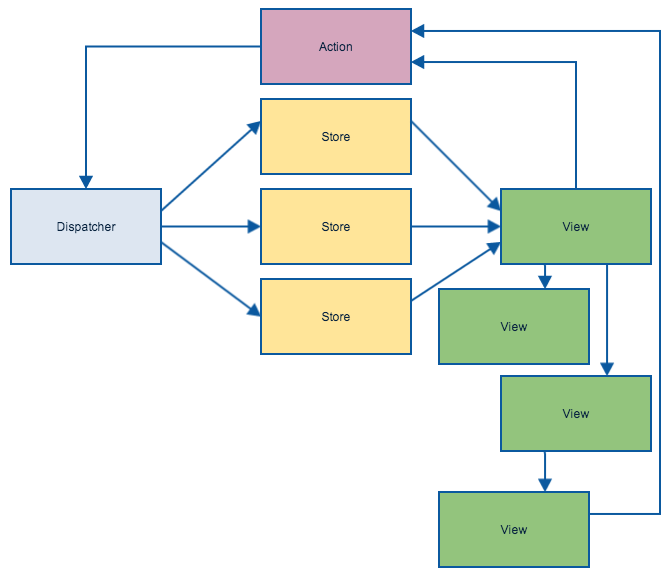
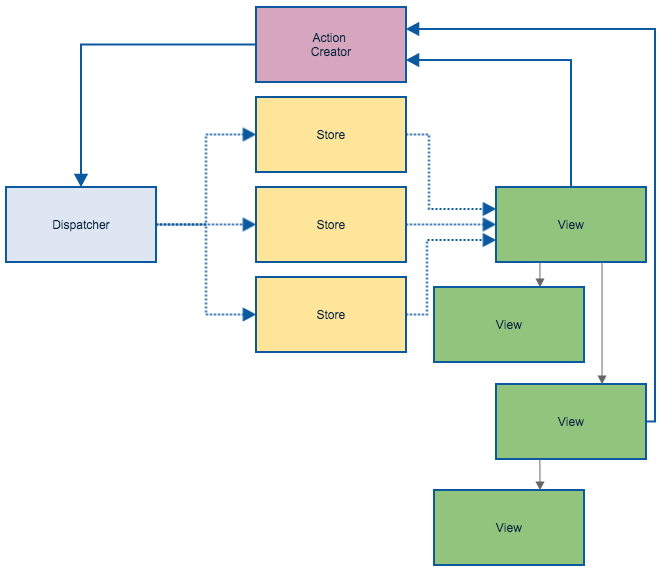
Update what is flux doc

diff --git a/site/contents/what-is-flux.md b/site/contents/what-is-flux.md
@@ -8,28 +8,28 @@ What is Flux?
 
 Flux is an architecture for creating data layers in JavaScript applications. It was designed at Facebook along with the [React](http://facebook.github.io/react/) view library.
 
-Flux is an alternative to the "M" and "C" in the MVC architecture. In MVC, a user interaction triggers code in a controller, which then coordinates changes to one or more models. When the models change, they notify one or more views, which read the new data from the models and update themselves accordingly so that the user can see that new data.
+Flux is an alternative to the "M" and "C" in the MVC architecture. In a client-side MVC application, a user interaction triggers code in a controller, which then coordinates changes to one or more models by calling methods on the model. When the models change, they notify one or more views, which in turn read the new data from the models and update themselves accordingly so that the user can see that new data.
 
 ![Simple MVC](/images/mvc-simple.png)
 
-As your application grows and you add more models and views, the dependencies between the models and views in your application become more complex.
+As your application grows and you add nested views, controllers to go with them, and additional models, the dependencies become more complex.
 
 ![Complex MVC](/images/mvc-complex.png)
 
-It becomes difficult to trace the code paths any given user interaction event will trigger, making it hard to understand which models will update and, in turn, which views will update. Add in the desire to have granular view updates based on changes on certain properties of certain models (rather than just re-rendering the entire view), and you can quickly end up with a codebase that's hard to debug. Additionally, if changes in models can trigger handlers in the views which themselves trigger yet more changes in the models, you can end up with a cascading series of changes that is both error-prone and difficult to debug.
+With the addition of just three views, one controller, and one model, the dependency graph is already harder to trace. When the user interacts with the UI, there are several potential code paths, and debugging errors in application state become an exercise in figuring out which of these potential code paths contains a bug. Furthermore, it's common to watch for changes on only select model fields, performing finer-grained view updates when these changes occur. Finally, in the worst cases, a user interaction will trigger updates which trigger additional updates, resulting in an error-prone and difficult-to-debug cascading effect.
 
 Flux eschews this design in favor of a one-way data flow:</p>
 
 ![Simple Flux](/images/flux-simple.png)
 
-All user interactions with a view trigger an *action* which flows through a singleton *dispatcher*. The dispatcher is a single-point-of-entry for all actions. The dispatcher also prevents cascading updates by ensuring that only one action can be dispatched at a time.
+All user interactions within a view call an *action creator*, which causes an *action* event to be emitted from a singleton *dispatcher*. The dispatcher is a single-point-of-emission for all actions. The dispatcher also prevents cascading updates by ensuring that only one action can be dispatched at a time. The action is sent from the dispatcher to the *stores*, which update themselves in response to the action.
 
-In a React application, a top-level view (known as a "controller-view") will read all the stores' new data and pass it down to child components as appropriate. Child components that need to update the application data will either call a function passed to it by a parent component or dispatch an action to the dispatcher.
+In a React application, a top-level view (known as a "controller-view") will read the stores' new data and pass it down to child components as necessary. Child components that need to update the application state will either call a function passed to it by a parent component or use an action creator to dispatch another action.
 
 ![Complex Flux](/images/flux-complex.png)
 
-The dispatcher sends every action to all the *stores*. Stores manage data and business logic in a Flux application; each store is responsible for a domain of the application (which may consist of more than a single piece or collection of data). Stores update themselves in response to actions—nothing outside the store has any knowledge of how the store manages its data. When they update, they emit an event that signals that their data has changed, allowing the views to fetch the new data and update accordingly.
+The dispatcher sends every action to *all* the stores in the application. Note that it does not contain knowledge about how to actually update the stores—the stores themselves contain this business logic. Each store is responsible for a domain of the application, and synchronously update themselves only in response to actions; they have no public properties or setter functions. When a store updates, it emits a change event, which signals to any controller-views that new data is available. In a React application, this generally triggers a re-render of the entire application (which React's diffing algorithm handles efficiently).
 
-Since stores have no setter methods or public properties for managing their data, testing them becomes a matter of putting them in a starting state, sending them an action, and testing that they end up in the expected final state.
+Since stores have no setter methods or public properties for managing their data and change *only* in response to actions, testing them becomes a matter of putting them in a starting state, sending them an action, and testing that they end up in the expected final state. And since action dispatches and the action handlers in the stores are fully synchronous, debugging errors in application state simply involves figuring out which action caused the bad state change and then finding the bad logic that responded to that action.
 
 For a more in-depth look at the Flux architecture, check out [Flux Application Architecture](http://facebook.github.io/flux/docs/overview.html) on the React site, and be sure to check out [Rethinking Web App Development at Facebook](https://www.youtube.com/watch?v=nYkdrAPrdcw) from F8 on YouTube to hear Jing Chen talk more about Flux.
